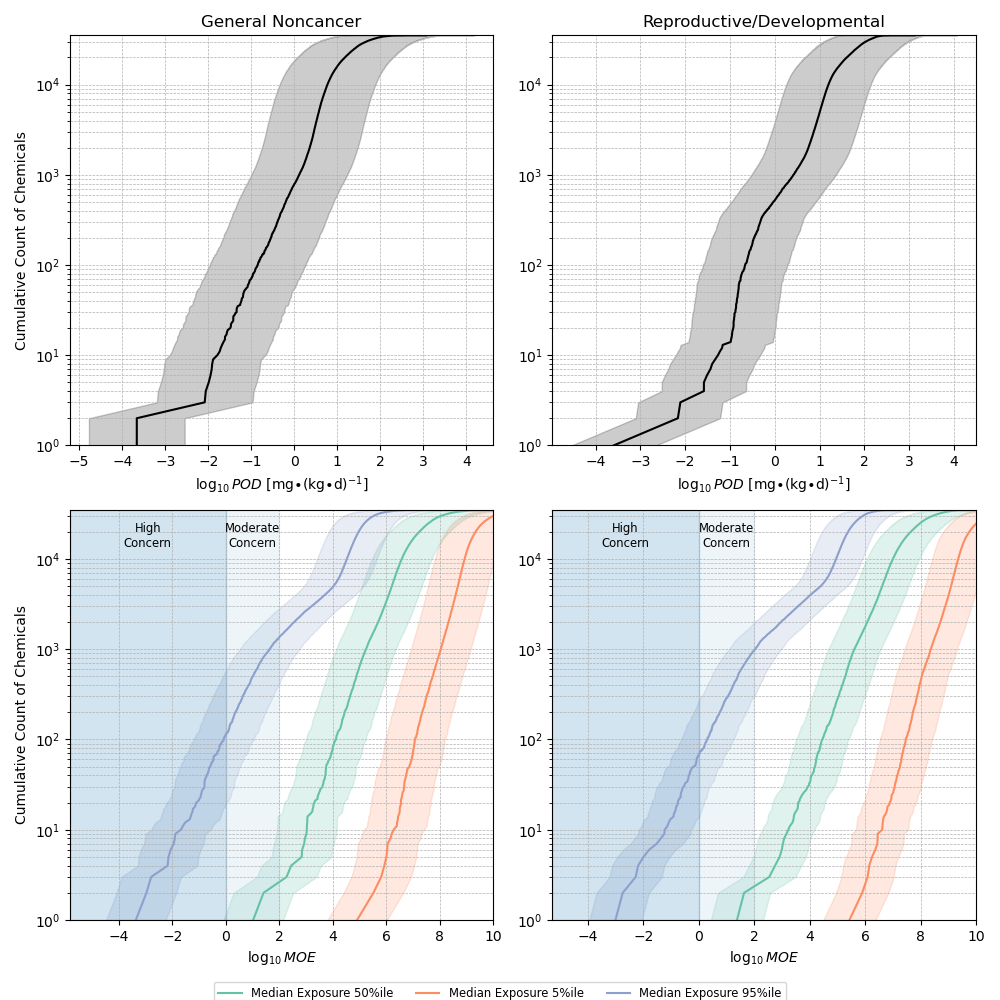
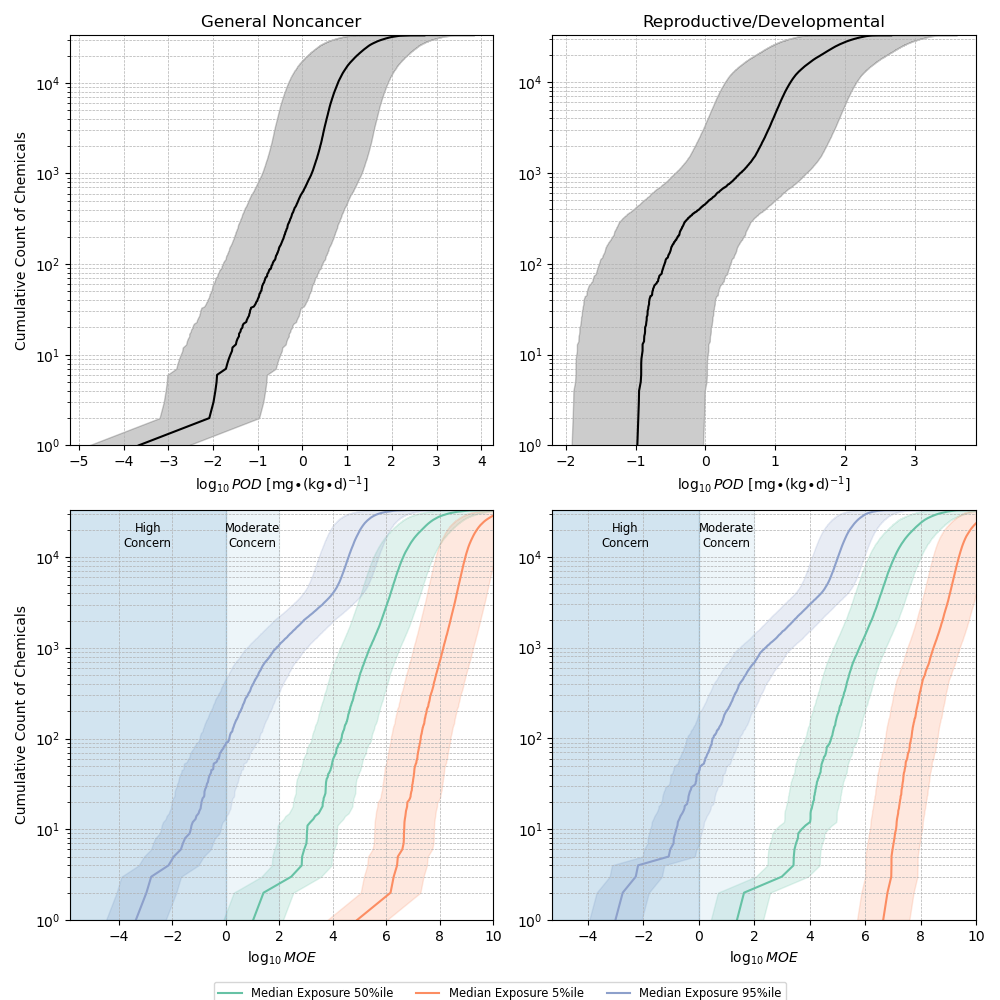
Refactor MOE figure: Exclude training chemicals

diff --git a/results_analysis.py b/results_analysis.py
@@ -216,7 +216,8 @@ class ResultsAnalyzer:
             self, 
             model_key, 
             inverse_transform=False, 
-            normalize=False
+            normalize=False, 
+            exclude_training=True
             ):
         '''
         Compute Points of Departure (PODs) with uncertainty estimates.
@@ -231,6 +232,9 @@ class ResultsAnalyzer:
         normalize : bool, optional
             If True, return cumulative frequencies (proportions) instead of 
             counts.
+        exclude_training : bool, optional
+            If True, excludes chemicals used for model training. Default is 
+            True, because these chemicals already have labeled data.
 
         Returns
         -------
@@ -240,7 +244,7 @@ class ResultsAnalyzer:
             - `lb`: Lower bound of the 90% prediction interval.
             - `ub`: Upper bound of the 90% prediction interval.
         '''
-        y_pred, *_ = self.predict(model_key)
+        y_pred, *_ = self.predict(model_key, exclude_training=exclude_training)
         sorted_pods, cumulative_data = self.generate_cdf_data(
             y_pred, 
             normalize=normalize
@@ -273,7 +277,8 @@ class ResultsAnalyzer:
             self, 
             model_key,
             inverse_transform=False, 
-            normalize=False            
+            normalize=False,
+            exclude_training=True           
             ):
         '''
         Compute Margins of Exposure (MOEs) with uncertainty estimates.
@@ -294,6 +299,9 @@ class ResultsAnalyzer:
         normalize : bool, optional
             If True, return cumulative frequencies (proportions) instead of 
             counts.
+        exclude_training : bool, optional
+            If True, excludes chemicals used for model training. Default is 
+            True, because these chemicals already have labeled data.
         
         Returns
         -------
@@ -305,7 +313,7 @@ class ResultsAnalyzer:
             - `lb`: Lower bound of the 90% prediction interval.
             - `ub`: Upper bound of the 90% prediction interval.
         '''
-        y_pred, *_ = self.predict(model_key)
+        y_pred, *_ = self.predict(model_key, exclude_training=exclude_training)
         
         exposure_df = self.data_manager.load_exposure_data()
         moes = self.margins_of_exposure(y_pred, exposure_df)
